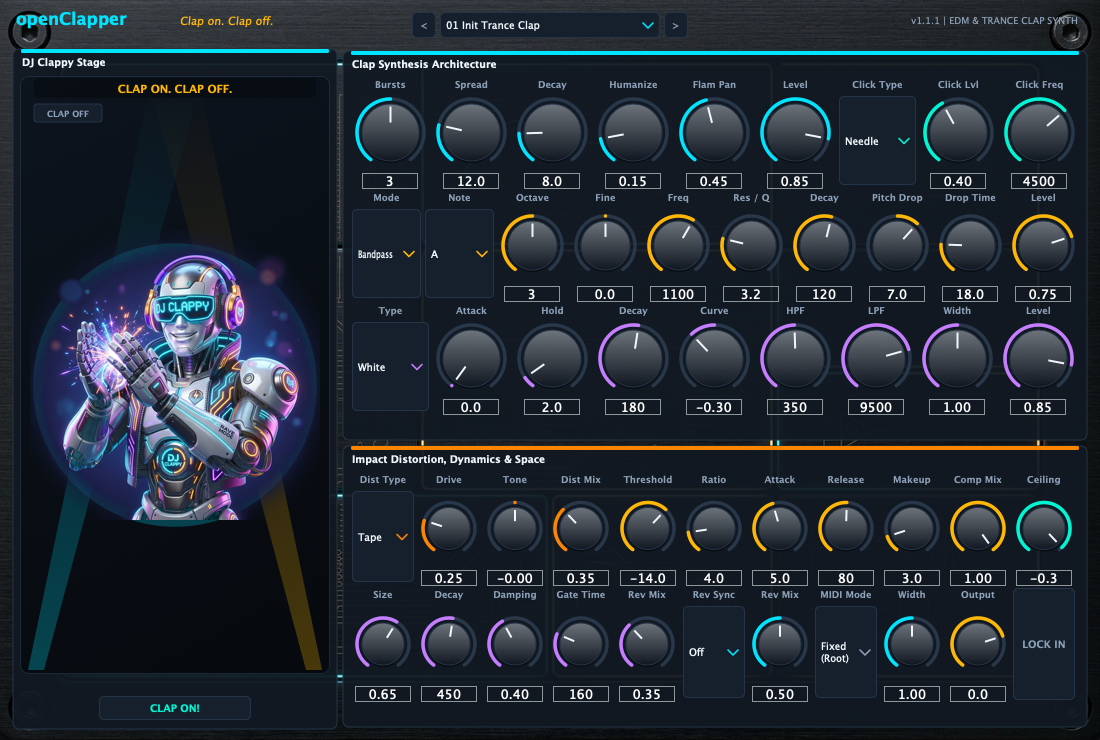
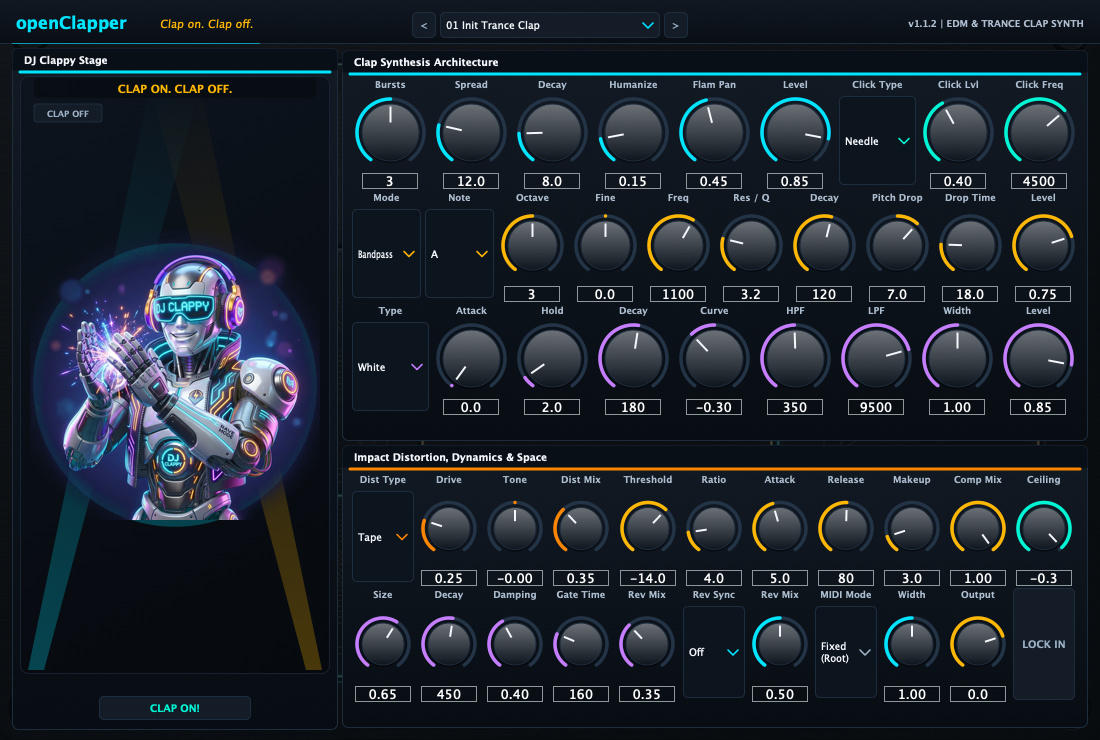
fix: make panels and textboxes fully opaque to eliminate background image text overlap (v1.1.2)

diff --git a/Source/Plugin/Controls.cpp b/Source/Plugin/Controls.cpp
@@ -12,7 +12,7 @@ Knob::Knob(Apvts& state, const juce::String& parameterId, const juce::String& ti
     title_.setText(title, juce::dontSendNotification);
     title_.setFont(juce::FontOptions(11.0f, juce::Font::bold));
     title_.setJustificationType(juce::Justification::centred);
-    title_.setColour(juce::Label::textColourId, theme::kTextDim);
+    title_.setColour(juce::Label::textColourId, theme::kTextDim.brighter(0.2f));
     addAndMakeVisible(title_);
 
     bind(state, parameterId);
@@ -35,12 +35,14 @@ void Knob::setTooltip(const juce::String& text) {
 
 Choice::Choice(Apvts& state, const juce::String& parameterId, const juce::String& title, juce::Colour accent) {
     box_.setColour(juce::ComboBox::arrowColourId, accent);
+    box_.setColour(juce::ComboBox::backgroundColourId, juce::Colour(0xff0c141e));
+    box_.setColour(juce::ComboBox::outlineColourId, juce::Colour(0xff223246));
     addAndMakeVisible(box_);
 
     title_.setText(title, juce::dontSendNotification);
     title_.setFont(juce::FontOptions(11.0f, juce::Font::bold));
     title_.setJustificationType(juce::Justification::centred);
-    title_.setColour(juce::Label::textColourId, theme::kTextDim);
+    title_.setColour(juce::Label::textColourId, theme::kTextDim.brighter(0.2f));
     addAndMakeVisible(title_);
 
     bind(state, parameterId);
@@ -96,21 +98,37 @@ void layoutRow(juce::Rectangle<int> area, std::initializer_list<juce::Component*
 }
 
 void drawPanel(juce::Graphics& g, juce::Rectangle<int> area, const juce::String& title, juce::Colour accent) {
-    auto bounds = area.toFloat().reduced(1.0f);
+    auto bounds = area.toFloat().reduced(0.5f);
+
+    // 100% solid opaque dark panel fill
     g.setColour(theme::kPanel);
     g.fillRoundedRectangle(bounds, 6.0f);
+
+    // Subtle dark gradient for depth
+    g.setGradientFill(juce::ColourGradient(
+        juce::Colour(0xff121a24), bounds.getTopLeft(),
+        juce::Colour(0xff080d13), bounds.getBottomLeft(), false));
+    g.fillRoundedRectangle(bounds.reduced(0.5f), 6.0f);
+
+    // Panel border
     g.setColour(theme::kPanelEdge);
     g.drawRoundedRectangle(bounds, 6.0f, 1.0f);
 
+    // Dedicated solid title header strip
+    auto titleBar = bounds.removeFromTop(22.0f);
+    g.setColour(juce::Colour(0xff090f16));
+    g.fillRoundedRectangle(titleBar, 6.0f);
+    g.fillRect(titleBar.removeFromBottom(6.0f));
+
     // Accent line at the top
-    const auto topBar = bounds.removeFromTop(4.0f).reduced(8.0f, 0.0f);
+    const auto topBar = bounds.removeFromTop(3.0f).reduced(6.0f, 0.0f);
     g.setColour(accent);
     g.fillRoundedRectangle(topBar, 1.5f);
 
     if (title.isNotEmpty()) {
         g.setColour(theme::kText);
         g.setFont(juce::FontOptions(12.0f, juce::Font::bold));
-        g.drawText(title, area.getX() + 10, area.getY() + 6, area.getWidth() - 20, 16, juce::Justification::left, true);
+        g.drawText(title, area.getX() + 12, area.getY() + 3, area.getWidth() - 24, 18, juce::Justification::left, true);
     }
 }
 

diff --git a/Source/Plugin/PluginEditor.cpp b/Source/Plugin/PluginEditor.cpp
@@ -71,30 +71,42 @@ void OpenClapperEditor::timerCallback() {
 }
 
 void OpenClapperEditor::paint(juce::Graphics& g) {
+    // 1. Solid dark chassis base
+    g.fillAll(openclapper::theme::kBackground);
+
+    // 2. Subtle chassis texture in margins (opacity 0.22 so background graphics never compete with text)
     if (faceplate_.isValid()) {
+        const juce::Graphics::ScopedSaveState state(g);
+        g.setOpacity(0.22f);
         g.drawImageWithin(faceplate_, 0, 0, getWidth(), getHeight(),
                           juce::RectanglePlacement::stretchToFit);
-    } else {
-        g.fillAll(openclapper::theme::kBackground);
     }
 
-    // Top Header Banner
-    const auto headerArea = getLocalBounds().removeFromTop(44).reduced(12, 4);
+    // 3. Solid top header bar with border and cyan accent strip
+    const auto headerArea = getLocalBounds().removeFromTop(44);
+    g.setGradientFill(juce::ColourGradient(
+        juce::Colour(0xff111822), 0.0f, 0.0f,
+        juce::Colour(0xff090e15), 0.0f, static_cast<float>(headerArea.getHeight()), false));
+    g.fillRect(headerArea);
+    g.setColour(openclapper::theme::kPanelEdge);
+    g.drawHorizontalLine(headerArea.getBottom() - 1, 0.0f, static_cast<float>(getWidth()));
+    g.setColour(openclapper::theme::kAccentCyan.withAlpha(0.6f));
+    g.drawHorizontalLine(headerArea.getBottom() - 1, 12.0f, 260.0f);
 
     // Logo & Title
     g.setColour(openclapper::theme::kAccentCyan);
     g.setFont(juce::FontOptions(20.0f, juce::Font::bold));
-    g.drawText("openClapper", headerArea.getX() + 4, headerArea.getY() + 2, 160, 24, juce::Justification::left, true);
+    g.drawText("openClapper", 16, headerArea.getY() + 10, 140, 24, juce::Justification::left, true);
 
     // Slogan in Header
     g.setColour(openclapper::theme::kAccentAmber);
     g.setFont(juce::FontOptions(13.0f, juce::Font::italic));
-    g.drawText("Clap on. Clap off.", headerArea.getX() + 168, headerArea.getY() + 6, 160, 20, juce::Justification::left, true);
+    g.drawText("Clap on. Clap off.", 160, headerArea.getY() + 13, 140, 20, juce::Justification::left, true);
 
     // Tech badges
-    g.setColour(openclapper::theme::kTextDim);
-    g.setFont(juce::FontOptions(11.0f));
-    g.drawText("v1.1.1 | EDM & TRANCE CLAP SYNTH", headerArea.getRight() - 250, headerArea.getY() + 6, 240, 20, juce::Justification::right, true);
+    g.setColour(openclapper::theme::kTextDim.brighter(0.25f));
+    g.setFont(juce::FontOptions(11.0f, juce::Font::bold));
+    g.drawText("v1.1.2 | EDM & TRANCE CLAP SYNTH", getWidth() - 250, headerArea.getY() + 13, 234, 20, juce::Justification::right, true);
 }
 
 void OpenClapperEditor::resized() {

diff --git a/Source/Plugin/EdmLookAndFeel.cpp b/Source/Plugin/EdmLookAndFeel.cpp
@@ -14,9 +14,9 @@ constexpr float kControlFontSize = 12.0f;
 EdmLookAndFeel::EdmLookAndFeel() {
     setColour(juce::ResizableWindow::backgroundColourId, theme::kBackground);
     setColour(juce::Label::textColourId, theme::kText);
-    setColour(juce::Slider::textBoxTextColourId, theme::kTextDim);
-    setColour(juce::Slider::textBoxOutlineColourId, juce::Colours::transparentBlack);
-    setColour(juce::Slider::textBoxBackgroundColourId, juce::Colours::transparentBlack);
+    setColour(juce::Slider::textBoxTextColourId, theme::kText);
+    setColour(juce::Slider::textBoxOutlineColourId, juce::Colour(0xff1e2b3c));
+    setColour(juce::Slider::textBoxBackgroundColourId, juce::Colour(0xff090f17));
     setColour(juce::Slider::textBoxHighlightColourId, theme::kTrack);
     setColour(juce::ComboBox::backgroundColourId, theme::kKnobBody);
     setColour(juce::ComboBox::textColourId, theme::kText);
@@ -149,8 +149,10 @@ juce::Font EdmLookAndFeel::getPopupMenuFont() {
 
 juce::Label* EdmLookAndFeel::createSliderTextBox(juce::Slider& slider) {
     auto* l = LookAndFeel_V4::createSliderTextBox(slider);
-    l->setFont(juce::FontOptions(11.0f));
+    l->setFont(juce::FontOptions(11.0f, juce::Font::bold));
     l->setJustificationType(juce::Justification::centred);
+    l->setColour(juce::Label::backgroundColourId, juce::Colour(0xff090f17));
+    l->setColour(juce::Label::outlineColourId, juce::Colour(0xff1e2b3c));
     return l;
 }
 

diff --git a/Source/Plugin/Theme.h b/Source/Plugin/Theme.h
@@ -4,13 +4,13 @@
 
 namespace openclapper::theme {
 
-inline const juce::Colour kBackground{ 0xff090d12 };
-inline const juce::Colour kPanel{ 0xf2111822 };
-inline const juce::Colour kPanelEdge{ 0xff253549 };
-inline const juce::Colour kKnobBody{ 0xff16202c };
-inline const juce::Colour kTrack{ 0xff283749 };
-inline const juce::Colour kText{ 0xfff0f6fc };
-inline const juce::Colour kTextDim{ 0xff8ca0b8 };
+inline const juce::Colour kBackground{ 0xff080c10 };
+inline const juce::Colour kPanel{ 0xff0c1219 };
+inline const juce::Colour kPanelEdge{ 0xff1e2d3e };
+inline const juce::Colour kKnobBody{ 0xff141d27 };
+inline const juce::Colour kTrack{ 0xff243447 };
+inline const juce::Colour kText{ 0xfff4f7fb };
+inline const juce::Colour kTextDim{ 0xff9cb0c6 };
 
 // Signature Cyber / Trance palette
 inline const juce::Colour kAccentCyan{ 0xff00e5ff };       // Primary neon cyan
